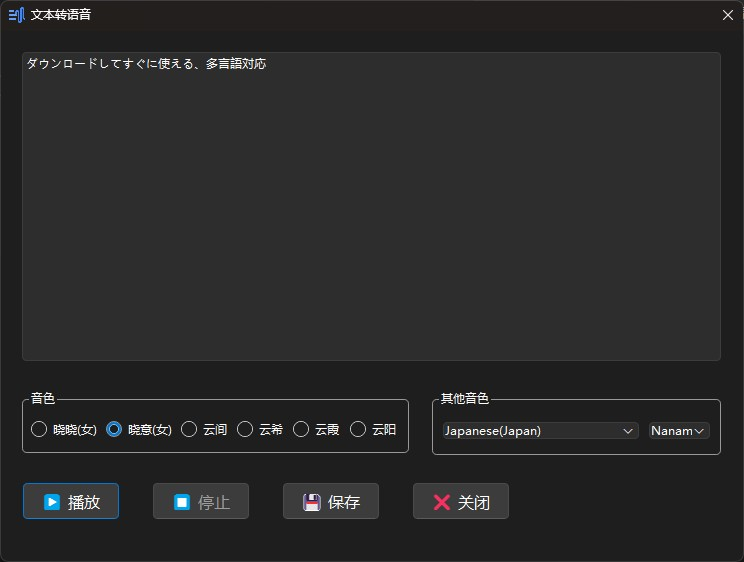
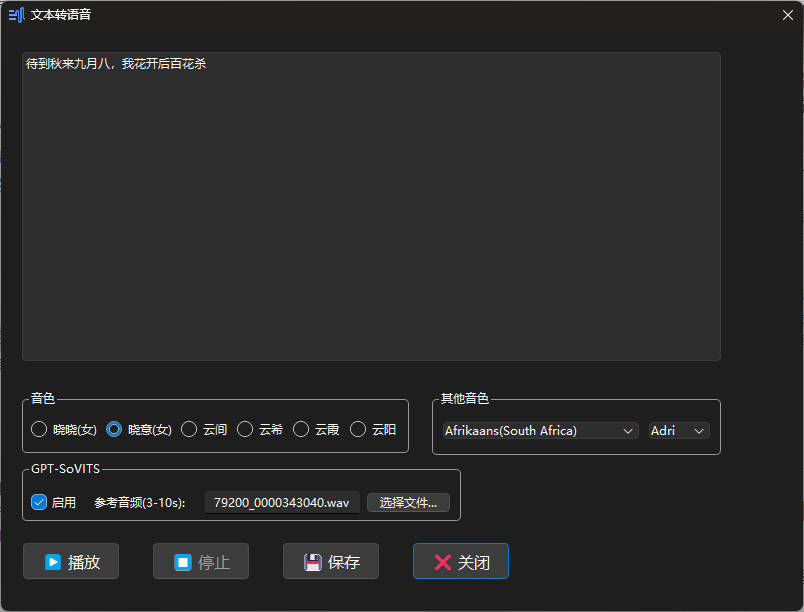
support GPT-SoVITS api_v2

diff --git a/src/dialog.cpp b/src/dialog.cpp
@@ -12,12 +12,10 @@ Dialog::Dialog(QWidget *parent)
     ui->setupUi(this);
     // connect this->send() to this->m_comm.start()
     connect(this, &Dialog::send, &m_comm, &Communicate::start);
-    connect(&m_comm, &Communicate::finished, [&]() {
-        ui->pushButtonPlay->setDisabled(false);
-        ui->pushButtonPlay->setText("▶ 播放");
-        ui->pushButtonStop->setEnabled(false);
-    });
+    connect(&m_comm, &Communicate::finished, this, &Dialog::onPlayFinished);
+    connect(&m_tts, &TextToSpeech::finished, this, &Dialog::onPlayFinished);
     connect(this, &Dialog::stop, &m_comm, &Communicate::stop);
+    connect(this, &Dialog::stop, &m_tts, &TextToSpeech::stop);
 
     connect(&m_comm, &Communicate::saveFinished, [&]() {
         ui->pushButtonSave->setDisabled(false);
@@ -39,6 +37,13 @@ Dialog::Dialog(QWidget *parent)
 Dialog::~Dialog()
 {
     delete ui;
+}
+
+void Dialog::onPlayFinished()
+{
+    ui->pushButtonPlay->setDisabled(false);
+    ui->pushButtonPlay->setText("▶ 播放");
+    ui->pushButtonStop->setEnabled(false);
 }
 
 void Dialog::playText(const QString& text)
@@ -123,6 +128,25 @@ void Dialog::setCommunicate(const QString& text, const QString& voice, const QSt
     m_lastVoice = voice;
 }
 
+bool Dialog::isUseGPTSoVITS()
+{
+    return ui->checkBoxUseGPTSoVITS->isChecked();
+}
+
+bool isValidAudioFile(const QString &filePath) {
+    // 检查文件扩展名
+    QStringList validExtensions = {"mp3", "wav", "ogg", "flac", "aac"};
+    QFileInfo fileInfo(filePath);
+    if (!validExtensions.contains(fileInfo.suffix().toLower())) {
+        return false;
+    }
+
+    // 尝试加载文件
+    QMediaPlayer player;
+    player.setSource(QUrl::fromLocalFile(filePath));
+    return player.error() == QMediaPlayer::NoError;
+}
+
 void Dialog::on_pushButtonPlay_clicked()
 {
     QString text = ui->plainTextEditContent->toPlainText();
@@ -134,9 +158,18 @@ void Dialog::on_pushButtonPlay_clicked()
     ui->pushButtonPlay->setText("⏳合成中...");
     ui->pushButtonStop->setEnabled(true);
 
-    setCommunicate(text, voice, "");
+    if (!isUseGPTSoVITS()) {
+        setCommunicate(text, voice, "");
+        emit send();
+        return;
+    }
 
-    emit send();
+    QString refAudioFilename = ui->lineEditRefAudio->text();
+    if (!isValidAudioFile(refAudioFilename)) {
+        return;
+    }
+
+    m_tts.getTTS(text, refAudioFilename);
 }
 
 void Dialog::on_pushButtonStop_clicked()

diff --git a/src/tts.cpp b/src/tts.cpp
@@ -1,0 +1,73 @@
+#include "tts.h"
+
+TextToSpeech::TextToSpeech(QObject *parent)
+    : QObject(parent)
+{
+    manager = new QNetworkAccessManager(this);
+    player = new QMediaPlayer(this);
+    buffer = new QBuffer(this);
+    audioOutput = new QAudioOutput(this);
+
+    QObject::connect(player, &QMediaPlayer::mediaStatusChanged, [&](QMediaPlayer::MediaStatus status) {
+        if (status == QMediaPlayer::EndOfMedia) {
+            emit finished();
+        }
+    });
+
+    QObject::connect(this, &TextToSpeech::stop, player, &QMediaPlayer::stop);
+}
+
+TextToSpeech::~TextToSpeech() {
+    delete player;
+    delete buffer;
+    delete audioOutput;
+}
+
+void TextToSpeech::getTTS(const QString &text, const QString &ref_audio_path, const QString &text_lang, const QString &prompt_lang
+                          , const QString &prompt_text) {
+    QUrl url("http://127.0.0.1:9880/tts");
+    QUrlQuery query;
+    query.addQueryItem("text", text);
+    query.addQueryItem("text_lang", text_lang);
+    query.addQueryItem("ref_audio_path", ref_audio_path);
+    query.addQueryItem("prompt_lang", prompt_lang);
+    if (!prompt_text.isEmpty()) {
+        query.addQueryItem("prompt_text", prompt_text);
+    }
+    query.addQueryItem("text_split_method", "cut5");
+    query.addQueryItem("batch_size", "1");
+    query.addQueryItem("media_type", "wav");
+    query.addQueryItem("streaming_mode", "true");
+    url.setQuery(query);
+
+    QNetworkRequest request(url);
+    QNetworkReply *reply = manager->get(request);
+    connect(reply, &QNetworkReply::finished, this, &TextToSpeech::onGetFinished);
+}
+
+void TextToSpeech::onGetFinished() {
+    QNetworkReply *reply = qobject_cast<QNetworkReply *>(sender());
+    if (reply) {
+        if (reply->error() == QNetworkReply::NoError) {
+            qDebug() << "Get Response!";
+
+            QByteArray response = reply->readAll();
+
+            buffer->close();
+
+            buffer->setData(response);
+            buffer->open(QIODevice::ReadOnly);
+
+            player->setAudioOutput(audioOutput);
+
+            // 设置媒体源为 QBuffer
+            player->setSourceDevice(buffer);
+
+            // 播放音频
+            player->play();
+        } else {
+            qDebug() << "GET Error:" << reply->errorString();
+        }
+        reply->deleteLater();
+    }
+}

diff --git a/src/tts.h b/src/tts.h
@@ -1,0 +1,44 @@
+#ifndef TTS_H
+#define TTS_H
+
+#include <QNetworkAccessManager>
+#include <QNetworkRequest>
+#include <QNetworkReply>
+#include <QBuffer>
+#include <QFile>
+#include <QUrl>
+#include <QUrlQuery>
+#include <QObject>
+#include <QDebug>
+#include <QtMultimedia/QMediaPlayer>
+#include <QtMultimedia/QAudioOutput>
+
+class TextToSpeech : public QObject {
+    Q_OBJECT
+
+public:
+    TextToSpeech(QObject *parent = nullptr);
+
+    ~TextToSpeech();
+
+    void getTTS(const QString &text, const QString &ref_audio_path, const QString &text_lang="zh", const QString &prompt_lang="zh"
+                , const QString &prompt_text="");
+
+private slots:
+    void onGetFinished();
+
+signals:
+    void finished();
+
+    void stop();
+
+
+private:
+    QNetworkAccessManager *manager;
+    QMediaPlayer* player;
+    QBuffer *buffer;
+    QAudioOutput *audioOutput;
+};
+
+
+#endif // TTS_H

diff --git a/src/dialog.h b/src/dialog.h
@@ -5,6 +5,7 @@
 #include <QKeyEvent>
 #include <QMap>
 #include "communicate.h"
+#include "tts.h"
 
 QT_BEGIN_NAMESPACE
 namespace Ui {
@@ -38,6 +39,8 @@ private:
 
     void setCommunicate(const QString& text, const QString& voice, const QString& fileName);
 
+    bool isUseGPTSoVITS();
+
 public:
     void playText(const QString& text);
 
@@ -63,6 +66,7 @@ private slots:
 private:
     Ui::Dialog *ui;
     Communicate m_comm;
+    TextToSpeech m_tts;
     QString m_lastText;
     QString m_lastVoice;
     QString voice;
@@ -82,6 +86,8 @@ private slots:
     void onLanguageChanged(const QString &language);
 
     void onVoiceNameChanged(const QString &voiceName);
+
+    void onPlayFinished();
 
 
 protected:

diff --git a/README.md b/README.md
@@ -1,6 +1,8 @@
 # edge-tts-gui
 一个简单的edge-tts的GUI，无需安装任何依赖项，只需下载可执行文件即可。
 
+新版本支持GPT-SoVITS api_v2
+
 快捷键：
 - `Ctrl` + `Enter`：播放
 - `Ctrl` + `S`：保存
@@ -13,3 +15,4 @@
 reference: 
 - [edge-tts](https://github.com/rany2/edge-tts)
 - [chineseocr_lite](https://github.com/DayBreak-u/chineseocr_lite)
+- [GPT-SoVITS](https://github.com/RVC-Boss/GPT-SoVITS)
